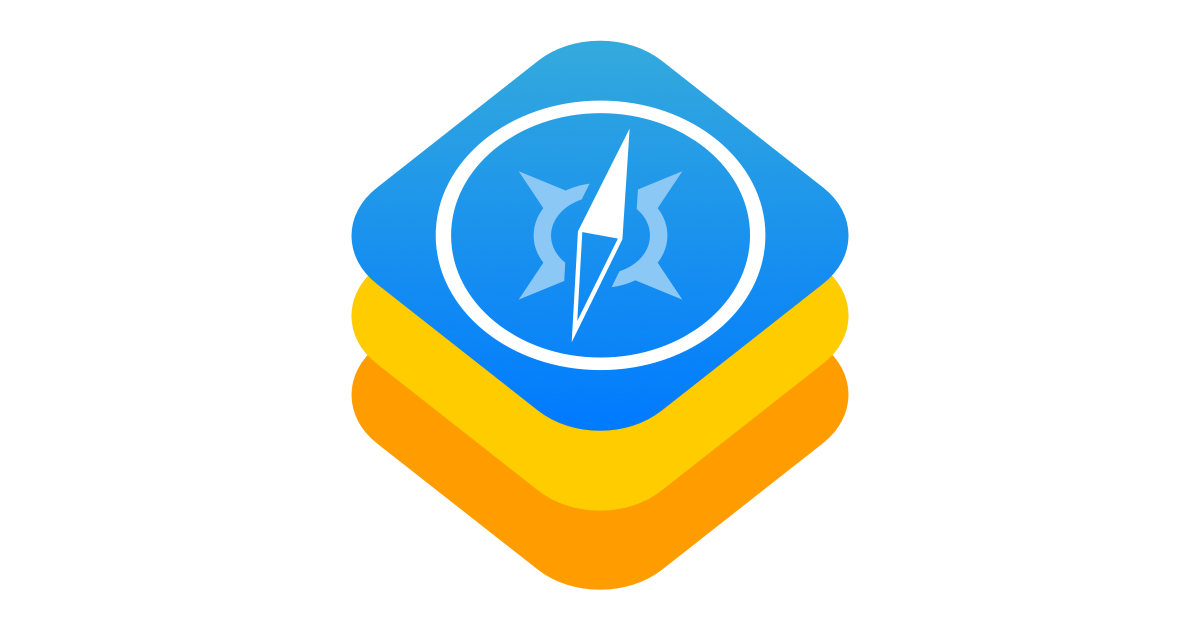
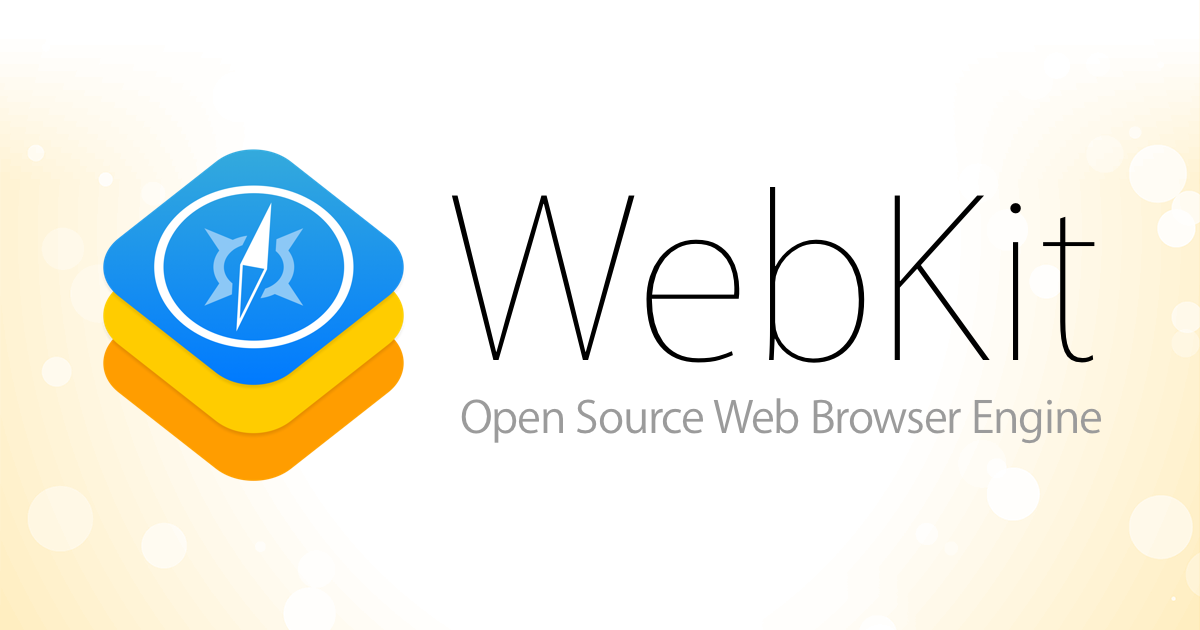
Added a colorful new image and fixed the Open Graph attribute. https://bugs.webkit.org/show_bug.cgi?id=159359
Reviewed by Timothy Hatcher.

The Open Graph image tag should use the property attribute not
the itemprop attribute.

* wp-content/plugins/social-meta.php:
* wp-content/themes/webkit/images/ogimage.png:

Identifier: 177487@main
git-svn-id: https://svn.webkit.org/repository/webkit/trunk@202756 268f45cc-cd09-0410-ab3c-d52691b4dbfc

diff --git a/Websites/webkit.org/wp-content/plugins/social-meta.php b/Websites/webkit.org/wp-content/plugins/social-meta.php
@@ -82,7 +82,7 @@ add_action('wp_head', function() {
     <meta property="og:type" content="<?php echo esc_attr($type); ?>">
     <meta property="og:url" content="<?php the_permalink(); ?>">
 <?php if ($image_url): ?>
-    <meta itemprop="og:image" content="<?php echo esc_url($image_url); ?>">
+    <meta property="og:image" content="<?php echo esc_url($image_url); ?>">
 <?php endif; ?>
 <?php if ($description): ?>
     <meta property="og:description" content="<?php echo esc_attr($description); ?>">
